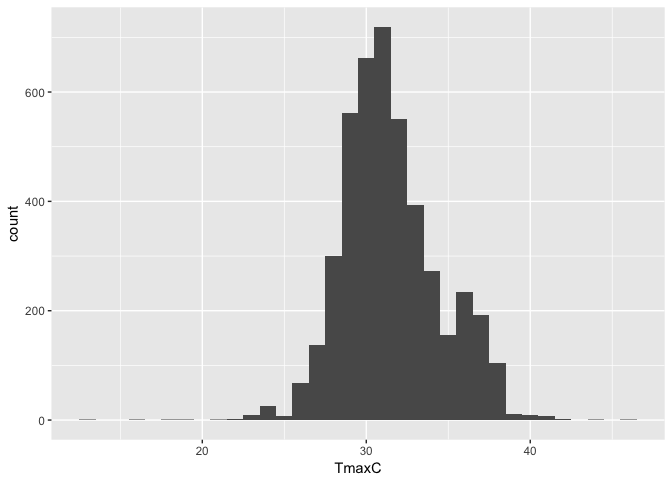
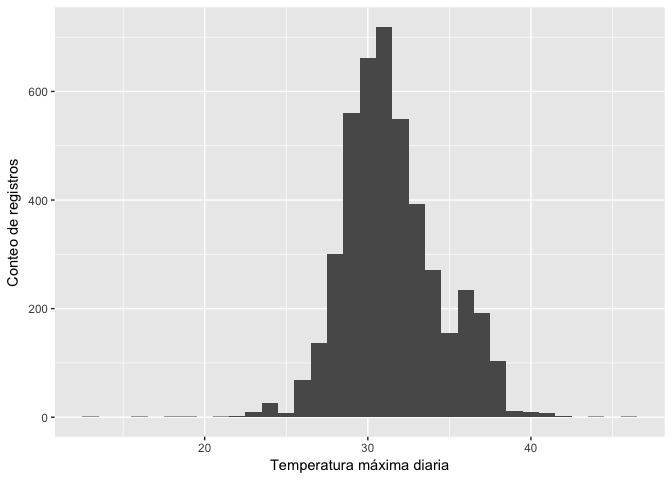
actualización

diff --git a/DatosClimaticos.md b/DatosClimaticos.md
@@ -158,7 +158,8 @@ Revisar rango de valores a través de un histograma.
 Lluvia:
 
 ``` r
-ggplot(SantaRosa) + geom_histogram(aes(x=Lluvia), binwidth = 10)
+ggplot(SantaRosa) + geom_histogram(aes(x=Lluvia), binwidth = 10) +
+  labs(x = "Lluvia diaria", y = "Conteo de registros")
 ```
 
 ![](DatosClimaticos_files/figure-markdown_github-ascii_identifiers/unnamed-chunk-11-1.png)
@@ -173,7 +174,8 @@ summary(SantaRosa$Lluvia)
 Temperatura máxima:
 
 ``` r
-ggplot(SantaRosa) + geom_histogram(aes(x=TmaxC), binwidth = 10)
+ggplot(SantaRosa) + geom_histogram(aes(x=TmaxC), binwidth = 10) + 
+  labs(x = "Temperatura máxima diaria", y = "Conteo de registros")
 ```
 
 ![](DatosClimaticos_files/figure-markdown_github-ascii_identifiers/unnamed-chunk-13-1.png)
@@ -188,7 +190,8 @@ summary(SantaRosa$TmaxC)
 Temperatura mínima:
 
 ``` r
-ggplot(SantaRosa) + geom_histogram(aes(x=TminC), binwidth = 10)
+ggplot(SantaRosa) + geom_histogram(aes(x=TminC), binwidth = 10) + 
+  labs(x = "Temperatura mínima diaria", y = "Conteo de registros")
 ```
 
 ![](DatosClimaticos_files/figure-markdown_github-ascii_identifiers/unnamed-chunk-15-1.png)
@@ -218,13 +221,15 @@ SantaRosa$TminC <- deci(SantaRosa$TminC)
 Comprobar cambios con nuevos histogramas:
 
 ``` r
-ggplot(SantaRosa) + geom_histogram(aes(x=TminC), binwidth = 1)
+ggplot(SantaRosa) + geom_histogram(aes(x=TminC), binwidth = 1) + 
+  labs(x = "Temperatura mínima diaria", y = "Conteo de registros")
 ```
 
 ![](DatosClimaticos_files/figure-markdown_github-ascii_identifiers/unnamed-chunk-19-1.png)
 
 ``` r
-ggplot(SantaRosa) + geom_histogram(aes(x=TmaxC), binwidth = 1)
+ggplot(SantaRosa) + geom_histogram(aes(x=TmaxC), binwidth = 1) +
+  labs(x = "Temperatura máxima diaria", y = "Conteo de registros")
 ```
 
 ![](DatosClimaticos_files/figure-markdown_github-ascii_identifiers/unnamed-chunk-20-1.png)
@@ -359,7 +364,8 @@ Gráfico de lluvia acumulada por año:
 
 ``` r
 ggplot(SantaRosa_graficos, aes(x = djuliano, y = LluviaAcumulada)) +
-  geom_line(aes(group = factor(anno), colour = factor(anno)))
+  geom_line(aes(group = factor(anno), colour = factor(anno))) +
+  labs(colour = "Años", x = "Días del año", y = "Lluvia diaria acumulada")
 ```
 
 ![](DatosClimaticos_files/figure-markdown_github-ascii_identifiers/unnamed-chunk-32-1.png)
@@ -368,14 +374,14 @@ Promedio de temperaturas por mes:
 
 ``` r
 ggplot(SantaRosa_graficos, aes(factor(anno), TmaxC)) +
-  geom_boxplot()
+  geom_boxplot() + labs(x = "Año", y = "Temperatura máxima diaria")
 ```
 
 ![](DatosClimaticos_files/figure-markdown_github-ascii_identifiers/unnamed-chunk-33-1.png)
 
 ``` r
 ggplot(SantaRosa_graficos, aes(factor(anno), TminC)) +
-  geom_boxplot()
+  geom_boxplot() + labs(x = "Año", y = "Temperatura mínima diaria")
 ```
 
 ![](DatosClimaticos_files/figure-markdown_github-ascii_identifiers/unnamed-chunk-34-1.png)
